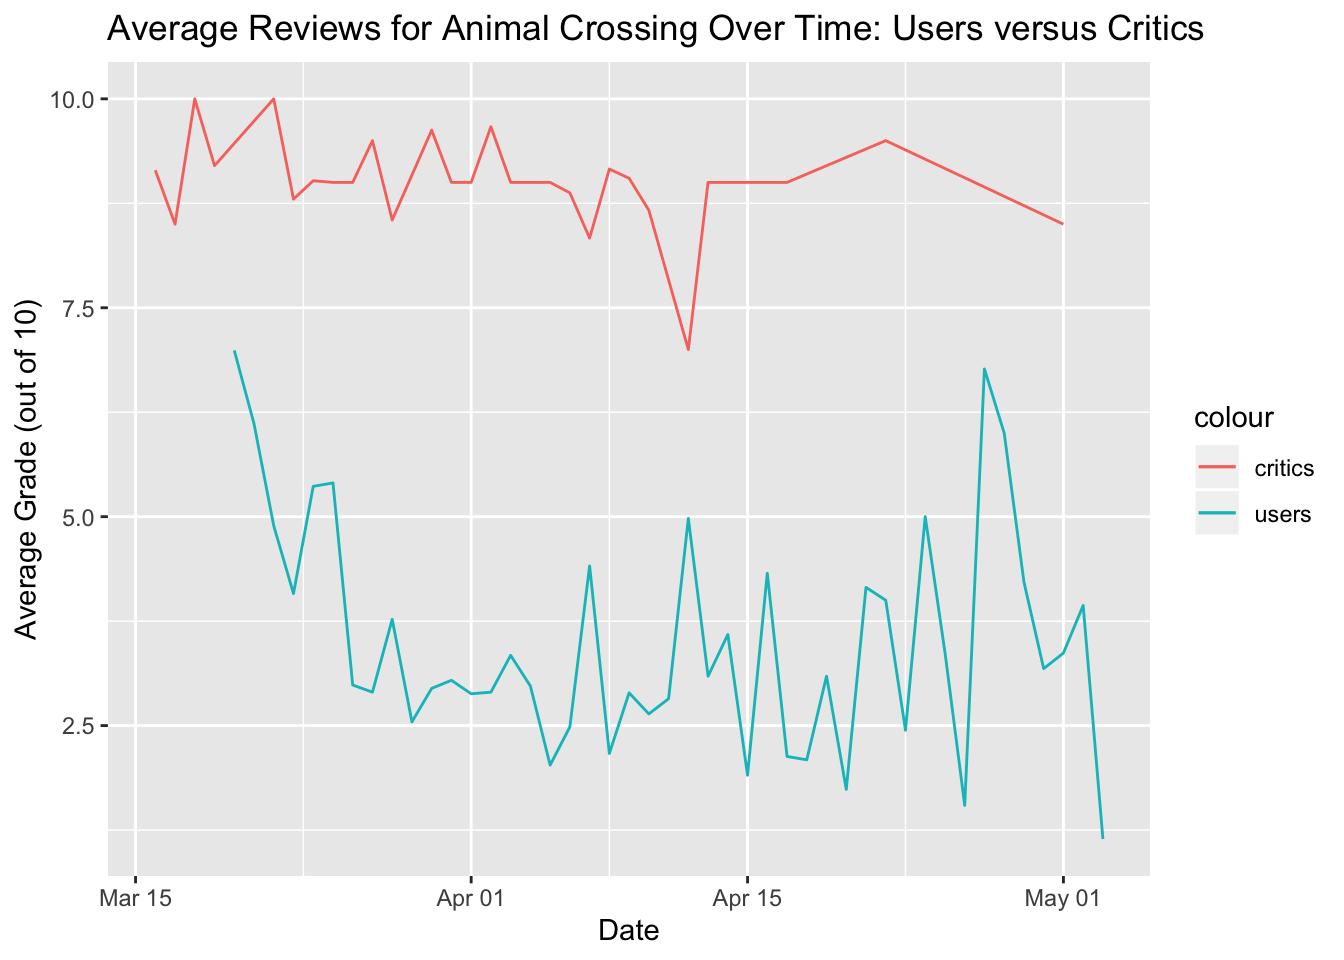
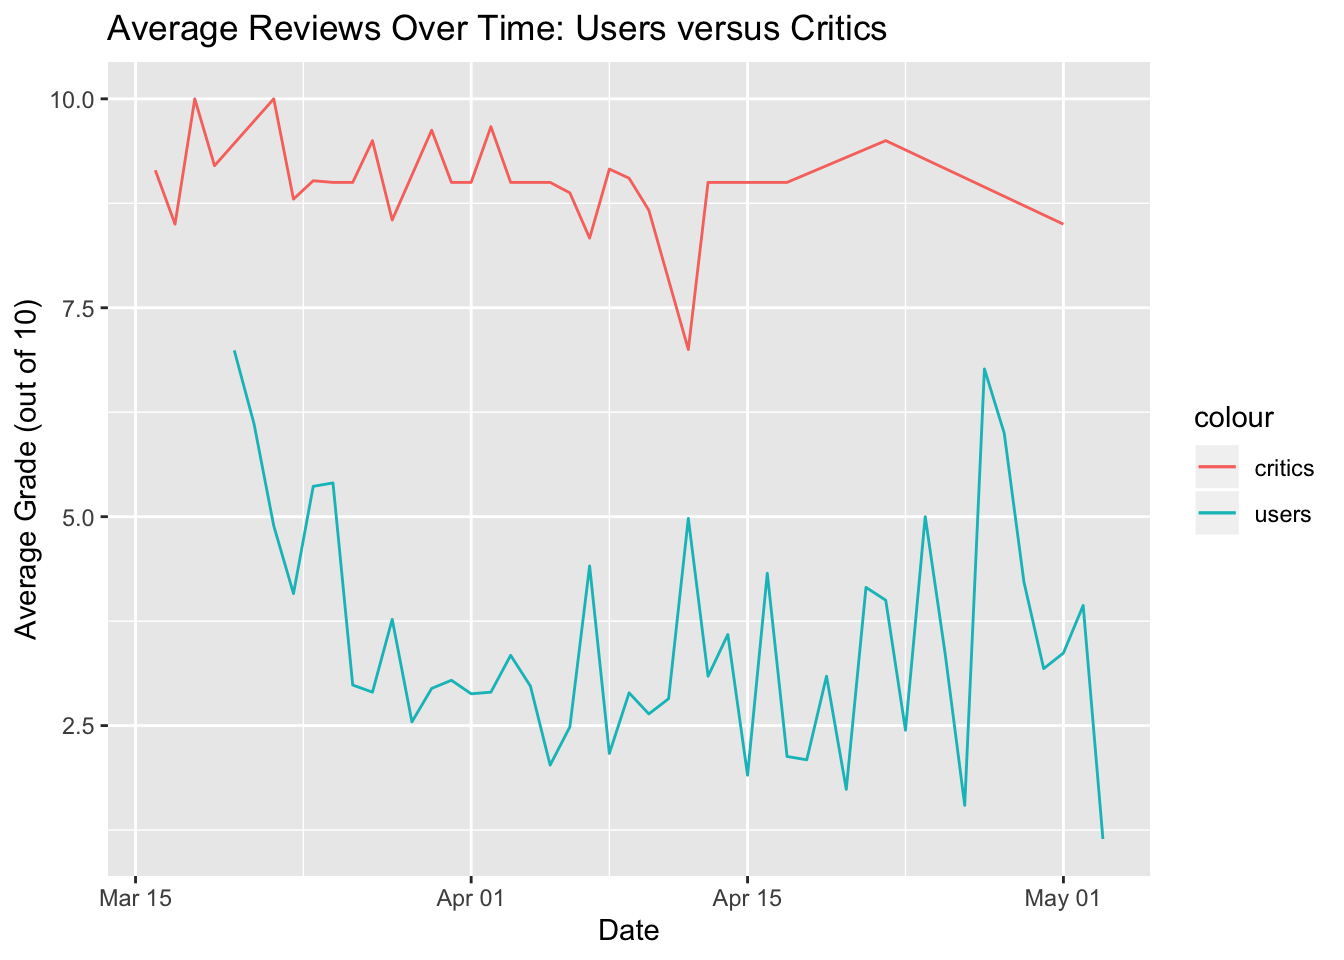
Finished animal crossing post!

Changed region(s): [[0.2812, 0.0, 0.9062, 0.0625]]

diff --git a/content/post/2020-05-05-animal-crossing.html b/content/post/2020-05-05-animal-crossing.html
@@ -1,19 +1,19 @@
 ---
 title: Animal Crossing
 author: Rose Porta
-date: '2020-05-05'
+date: '2020-05-07'
 slug: animal-crossing
 categories: []
 tags: []
-draft: true
+draft: false
 ---
 
 
 
 <p>Animal Crossing is a Nintendo video game, and the latest version, Animal Crossing New Horizons, released on March 20th 2020 is the latest trend among gamers. It is an open-ended simulation game where the goal is to create a community of anthropomorphic animals on a deserted island. If you want to learn more about it, the wikipedia page is <a href="https://en.wikipedia.org/wiki/Animal_Crossing:_New_Horizons">here</a> <a href="#fn1" class="footnote-ref" id="fnref1"><sup>1</sup></a>.</p>
 <p>The #TidyTuesday data this week contains information about Animal Crossing reviews by both critics and consumers <a href="#fn2" class="footnote-ref" id="fnref2"><sup>2</sup></a>. The data contains a numerical score associated with each review as well as the qualitative text review.</p>
-<div id="critic-reviews-versus-user-reviews-over-time" class="section level1">
-<h1>Critic Reviews Versus User Reviews Over Time</h1>
+<div id="trends-in-reviews-over-time-critics-versus-users" class="section level1">
+<h1>Trends in Reviews Over Time: Critics Versus Users</h1>
 <p>In order to see the overall trends in the reviews of critics versus users, I created a time series plot showing the trends over time in the average numerical ratings by critics and users (out of 10) since the game was released. The critics originally gave scores out of 100, but I converted them to be out of 10 for more consistent comparison to user reviews, which were out of 10.</p>
 <p><img src="/post/2020-05-05-animal-crossing_files/figure-html/unnamed-chunk-2-1.png" width="672" /></p>
 <p>Surprisingly, given the enormous commercial success of the game, the reviews by critics appear to be significantly higher than the reviews by users. In <a href="https://venturebeat.com/2020/04/15/6-weeks-with-animal-crossing-new-horizons-reveals-many-frustrations/">this article</a>, one critic, Jeff Grubb, offers some insight as to why users may be frustrated with certain aspects of the new game compared to older versions of the game <a href="#fn3" class="footnote-ref" id="fnref3"><sup>3</sup></a>. This could be partly why users rated the game so poorly, but it still does not fully explain why reviews by critics would be so significantly higher.</p>
@@ -23,37 +23,28 @@ draft: true
 <h1>Rating Distributions</h1>
 <p>In order to compare critic versus user reviews from a slightly different angle, I created boxplots representing the overall distributions of scores.</p>
 <p><img src="/post/2020-05-05-animal-crossing_files/figure-html/unnamed-chunk-3-1.png" width="672" /><img src="/post/2020-05-05-animal-crossing_files/figure-html/unnamed-chunk-3-2.png" width="672" /></p>
-<p>Consistent with the line graph, the median grade given by users appears to be almost 7 points lower than that given by critics, and this is an enormous difference on a 10 point scale! Furthermore, the scores given by users were much more widely spread out than those given by critics. This aspect makes sense given that critics generally approach their reviews with set criteria that is somewhat accepted among critics, so they are likely to reach similar conclusions, wheras users are reviewing the game based on their own very different priorities and preferences.</p>
-<p>Another notable aspect of these plots is that the plot of users’ scores has no “whiskers” or outliers, indicating that the minimum score (0) is also the first quartile, and the maximum score (10) is also the third quartile. This likely reflects the fact that users are more likely to review something if they have a strong (positive or negative) opinion about it, so a substantial number of users rated the game a 0 out of 10, but a substantial number also rated the game a 10/10. This effect would not apply to critics because critics are asked by companies to review certain games– they do not choose which games to review based on how much they like the games. This could be a possible explanation of the large disparity between user reviews and critic reviews. In general, users are more likely to review a product if they have a strong opinion about it at either extreme, but they may be even more inclined to review the game if their strong opinion is negative. If this is the case, the user reviews may not provide an accurate representation of overall user satisfaction.</p>
-<p>On the other hand, I am not an expert on how video game criticism works, but I believe critics are paid by the distributer of the game to review it. Thus, it seems that they may be more inclined to give a positive review so that they have a higher chance of being hired again by the same distributer, in which case critic reviews may also be a misleading measure of the overall quality of the game.</p>
+<p>Consistent with the line graph, the median grade given by users appears to be almost 7 points lower than that given by critics, and this is an enormous difference on a 10 point scale! Furthermore, the scores given by users were much more widely spread out than those given by critics. This aspect makes sense given that critics generally approach their reviews with set criteria that is somewhat accepted among critics, so they are likely to reach similar conclusions, whereas users are reviewing the game based on their own very different priorities and preferences.</p>
+<p>Another notable aspect of these plots is that the plot of users’ scores has no “whiskers” or outliers, indicating that the minimum score (0) is also the first quartile, and the maximum score (10) is also the third quartile. This likely reflects the fact that users are more likely to review something if they have a strong (positive or negative) opinion about it, so a substantial number of users rated the game a 0 out of 10, but a substantial number also rated the game a 10 out of 10. This effect would not apply to critics because critics are asked by companies to review certain games– they do not choose which games to review based on how much they like the games. This could be a possible explanation of the large disparity between user reviews and critic reviews. In general, users are more likely to review a product if they have a strong opinion about it at either extreme, but they may be even more inclined to review the game if their strong opinion is negative. If this is the case, the user reviews may not provide an accurate representation of overall user satisfaction.</p>
+<p>On the other hand, I am not an expert on how video game criticism works, but I believe critics are paid by the distributer of the game to review it. Thus, it seems that they may be more inclined to give a positive review so that they have a higher chance of being hired again by the same distributer. In this case, critic reviews may also be a misleading measure of the overall quality of the game.</p>
 <p>So, is Animal Crossing New Horizons worth buying? According to wikipedia, the game broke the console game record for most digital units sold in a month, having sold 5 million digital copies within the first month of being released <a href="#fn4" class="footnote-ref" id="fnref4"><sup>4</sup></a>. Plus, the median review by critics is a 9/10, which is pretty darn good. Based on these numbers, the verdict seems like a no brainer. The one piece of the puzzle that doesn’t fit is that the median user review is less than a 2.5 out of 10. Based, on that number alone, it would seem obvious that the game was terrible! I have explored some possible reasoning for this seemingly paradoxical disparity, but the definitive reason is still a mystery.</p>
 </div>
 <div id="text-analysis" class="section level1">
 <h1>Text Analysis</h1>
-<pre class="r"><code># Text Analysis
-
-library(tidytext)</code></pre>
-<pre><code>## Warning: package &#39;tidytext&#39; was built under R version 3.6.2</code></pre>
-<pre class="r"><code>library(wordcloud)</code></pre>
-<pre><code>## Loading required package: RColorBrewer</code></pre>
-<pre class="r"><code>critic_text &lt;- critic %&gt;% 
-  select(text) %&gt;% 
-  unnest_tokens(word, text) %&gt;% 
-  anti_join(stop_words) %&gt;% 
-  count(word, sort = TRUE)</code></pre>
-<pre><code>## Joining, by = &quot;word&quot;</code></pre>
-<pre class="r"><code>critic_text %&gt;% 
-  with(wordcloud(word, n, max.words = 50))</code></pre>
-<p><img src="/post/2020-05-05-animal-crossing_files/figure-html/unnamed-chunk-4-1.png" width="672" /></p>
-<pre class="r"><code>user_text &lt;- user_reviews %&gt;% 
-  select(text) %&gt;% 
-  unnest_tokens(word, text) %&gt;% 
-  anti_join(stop_words) %&gt;% 
-  count(word, sort = TRUE)</code></pre>
-<pre><code>## Joining, by = &quot;word&quot;</code></pre>
-<pre class="r"><code>user_text %&gt;% 
-  with(wordcloud(word, n, max.words = 50))</code></pre>
-<p><img src="/post/2020-05-05-animal-crossing_files/figure-html/unnamed-chunk-4-2.png" width="672" /></p>
+<p>In addition to looking at the numerical scores given by users and critics, I decided to do some qualitative text analysis to dig deeper into the differences between critic and user sentiments about the game. This was my first time doing text analysis in R, so it was a fun new challenge for me! The <a href="https://www.tidytextmining.com/">Text Mining with R</a> book was a very helpful resource to get me started <a href="#fn5" class="footnote-ref" id="fnref5"><sup>5</sup></a>.</p>
+<p>First, just for fun, I created word clouds of the most commonly used words in the critic and user reviews (I limited it to the top 50 words so they could all fit in the frame). This was not particularly informative because the most common words were pretty similar between the two, and the ones that stand out the most, like “animal”, “crossing”, “game”, “island”, and “nintendo” don’t tell us a whole lot about the opinions expressed in the reviews. Most of the words that are associated with emotion are positive for both, but it is notable that the word “bad” is in the top 50 most used words for users, while there are no explicitly negative words in the top 50 for critics.</p>
+<div id="critic-reviews" class="section level2">
+<h2>Critic Reviews</h2>
+<p><img src="/post/2020-05-05-animal-crossing_files/figure-html/unnamed-chunk-5-1.png" width="672" /></p>
+</div>
+<div id="user-reviews" class="section level2">
+<h2>User Reviews</h2>
+<p><img src="/post/2020-05-05-animal-crossing_files/figure-html/unnamed-chunk-6-1.png" width="672" />
+In order to dig deeper into the differences in sentiments being expressed in critic versus user reviews, I used the nrc data set from the textdata package<a href="#fn6" class="footnote-ref" id="fnref6"><sup>6</sup></a>, which is a crowd-sourced data set that classifies almost every word in the english language based on 10 sentiments: positive, negative, trust, anticipation, joy, sadness, fear, anger, surprise, and disgust. I joined this dataset with the data sets containing the words from the user and critic reviews in order to classify each word in the reviews based on these sentiments. Then, I computed the proportion of words associated with each sentiment for critic and user reviews, and compared the proportions using the bar plot below.</p>
+<p><img src="/post/2020-05-05-animal-crossing_files/figure-html/unnamed-chunk-7-1.png" width="672" /></p>
+<p>Consistent with the numerical scores being significantly higher for critic reviews, a significantly higher proportion of words in the critic reviews were classified into the categories positive, trust, anticipation, joy and surprise when compared to user reviews. Each of these categories corresponds to the expression of optimism, which makes sense because the numerical scores showed the critic reviews to be much more optimistic than the user reviews. On the other side of it, the proportions for critic reviews were much lower in the negative, sadness, fear, anger, and disgust categories compared to the proportions for user reviews. Each of these categories corresponds to the expression of pessimism, which also aligns with my analysis of the numerical scores.</p>
+<p>Overall, it still puzzles me why the critics and the users would have such drastically different opinions on the same game, but it is clear based on both the quantitative analysis of the scores and the qualitative analysis of the text reviews that critics expressed much higher levels of satisfaction than did users about Nintendo’s new release Animal Crossing New Horizons. I will have to do more research on the game and on the process of video game review to better explain these results.</p>
+<p>That’s it for this post! Stay tuned for next week!</p>
+</div>
 </div>
 <div class="footnotes">
 <hr />
@@ -62,5 +53,7 @@ library(tidytext)</code></pre>
 <li id="fn2"><p><a href="https://github.com/rfordatascience/tidytuesday/blob/master/data/2020/2020-05-05/readme.md" class="uri">https://github.com/rfordatascience/tidytuesday/blob/master/data/2020/2020-05-05/readme.md</a><a href="#fnref2" class="footnote-back">↩</a></p></li>
 <li id="fn3"><p><a href="https://venturebeat.com/2020/04/15/6-weeks-with-animal-crossing-new-horizons-reveals-many-frustrations/" class="uri">https://venturebeat.com/2020/04/15/6-weeks-with-animal-crossing-new-horizons-reveals-many-frustrations/</a><a href="#fnref3" class="footnote-back">↩</a></p></li>
 <li id="fn4"><p><a href="https://en.wikipedia.org/wiki/Animal_Crossing:_New_Horizons" class="uri">https://en.wikipedia.org/wiki/Animal_Crossing:_New_Horizons</a><a href="#fnref4" class="footnote-back">↩</a></p></li>
+<li id="fn5"><p><a href="https://www.tidytextmining.com/" class="uri">https://www.tidytextmining.com/</a><a href="#fnref5" class="footnote-back">↩</a></p></li>
+<li id="fn6"><p>This dataset was published in Saif M. Mohammad and Peter Turney. (2013), ``Crowdsourcing a Word-Emotion Association Lexicon.’’ Computational Intelligence, 29(3): 436-465.<a href="#fnref6" class="footnote-back">↩</a></p></li>
 </ol>
 </div>

diff --git a/public/2020/05/07/animal-crossing/index.html b/public/2020/05/07/animal-crossing/index.html
@@ -61,7 +61,7 @@
     <h1 class="article-title">Animal Crossing</h1>
 
     
-    <span class="article-date">2020-05-05</span>
+    <span class="article-date">2020-05-07</span>
     
 
     <div class="article-content">
@@ -70,8 +70,8 @@
 
 <p>Animal Crossing is a Nintendo video game, and the latest version, Animal Crossing New Horizons, released on March 20th 2020 is the latest trend among gamers. It is an open-ended simulation game where the goal is to create a community of anthropomorphic animals on a deserted island. If you want to learn more about it, the wikipedia page is <a href="https://en.wikipedia.org/wiki/Animal_Crossing:_New_Horizons">here</a> <a href="#fn1" class="footnote-ref" id="fnref1"><sup>1</sup></a>.</p>
 <p>The #TidyTuesday data this week contains information about Animal Crossing reviews by both critics and consumers <a href="#fn2" class="footnote-ref" id="fnref2"><sup>2</sup></a>. The data contains a numerical score associated with each review as well as the qualitative text review.</p>
-<div id="critic-reviews-versus-user-reviews-over-time" class="section level1">
-<h1>Critic Reviews Versus User Reviews Over Time</h1>
+<div id="trends-in-reviews-over-time-critics-versus-users" class="section level1">
+<h1>Trends in Reviews Over Time: Critics Versus Users</h1>
 <p>In order to see the overall trends in the reviews of critics versus users, I created a time series plot showing the trends over time in the average numerical ratings by critics and users (out of 10) since the game was released. The critics originally gave scores out of 100, but I converted them to be out of 10 for more consistent comparison to user reviews, which were out of 10.</p>
 <p><img src="/post/2020-05-05-animal-crossing_files/figure-html/unnamed-chunk-2-1.png" width="672" /></p>
 <p>Surprisingly, given the enormous commercial success of the game, the reviews by critics appear to be significantly higher than the reviews by users. In <a href="https://venturebeat.com/2020/04/15/6-weeks-with-animal-crossing-new-horizons-reveals-many-frustrations/">this article</a>, one critic, Jeff Grubb, offers some insight as to why users may be frustrated with certain aspects of the new game compared to older versions of the game <a href="#fn3" class="footnote-ref" id="fnref3"><sup>3</sup></a>. This could be partly why users rated the game so poorly, but it still does not fully explain why reviews by critics would be so significantly higher.</p>
@@ -81,9 +81,9 @@
 <h1>Rating Distributions</h1>
 <p>In order to compare critic versus user reviews from a slightly different angle, I created boxplots representing the overall distributions of scores.</p>
 <p><img src="/post/2020-05-05-animal-crossing_files/figure-html/unnamed-chunk-3-1.png" width="672" /><img src="/post/2020-05-05-animal-crossing_files/figure-html/unnamed-chunk-3-2.png" width="672" /></p>
-<p>Consistent with the line graph, the median grade given by users appears to be almost 7 points lower than that given by critics, and this is an enormous difference on a 10 point scale! Furthermore, the scores given by users were much more widely spread out than those given by critics. This aspect makes sense given that critics generally approach their reviews with set criteria that is somewhat accepted among critics, so they are likely to reach similar conclusions, wheras users are reviewing the game based on their own very different priorities and preferences.</p>
-<p>Another notable aspect of these plots is that the plot of users’ scores has no “whiskers” or outliers, indicating that the minimum score (0) is also the first quartile, and the maximum score (10) is also the third quartile. This likely reflects the fact that users are more likely to review something if they have a strong (positive or negative) opinion about it, so a substantial number of users rated the game a 0 out of 10, but a substantial number also rated the game a 10/10. This effect would not apply to critics because critics are asked by companies to review certain games– they do not choose which games to review based on how much they like the games. This could be a possible explanation of the large disparity between user reviews and critic reviews. In general, users are more likely to review a product if they have a strong opinion about it at either extreme, but they may be even more inclined to review the game if their strong opinion is negative. If this is the case, the user reviews may not provide an accurate representation of overall user satisfaction.</p>
-<p>On the other hand, I am not an expert on how video game criticism works, but I believe critics are paid by the distributer of the game to review it. Thus, it seems that they may be more inclined to give a positive review so that they have a higher chance of being hired again by the same distributer, in which case critic reviews may also be a misleading measure of the overall quality of the game.</p>
+<p>Consistent with the line graph, the median grade given by users appears to be almost 7 points lower than that given by critics, and this is an enormous difference on a 10 point scale! Furthermore, the scores given by users were much more widely spread out than those given by critics. This aspect makes sense given that critics generally approach their reviews with set criteria that is somewhat accepted among critics, so they are likely to reach similar conclusions, whereas users are reviewing the game based on their own very different priorities and preferences.</p>
+<p>Another notable aspect of these plots is that the plot of users’ scores has no “whiskers” or outliers, indicating that the minimum score (0) is also the first quartile, and the maximum score (10) is also the third quartile. This likely reflects the fact that users are more likely to review something if they have a strong (positive or negative) opinion about it, so a substantial number of users rated the game a 0 out of 10, but a substantial number also rated the game a 10 out of 10. This effect would not apply to critics because critics are asked by companies to review certain games– they do not choose which games to review based on how much they like the games. This could be a possible explanation of the large disparity between user reviews and critic reviews. In general, users are more likely to review a product if they have a strong opinion about it at either extreme, but they may be even more inclined to review the game if their strong opinion is negative. If this is the case, the user reviews may not provide an accurate representation of overall user satisfaction.</p>
+<p>On the other hand, I am not an expert on how video game criticism works, but I believe critics are paid by the distributer of the game to review it. Thus, it seems that they may be more inclined to give a positive review so that they have a higher chance of being hired again by the same distributer. In this case, critic reviews may also be a misleading measure of the overall quality of the game.</p>
 <p>So, is Animal Crossing New Horizons worth buying? According to wikipedia, the game broke the console game record for most digital units sold in a month, having sold 5 million digital copies within the first month of being released <a href="#fn4" class="footnote-ref" id="fnref4"><sup>4</sup></a>. Plus, the median review by critics is a 9/10, which is pretty darn good. Based on these numbers, the verdict seems like a no brainer. The one piece of the puzzle that doesn’t fit is that the median user review is less than a 2.5 out of 10. Based, on that number alone, it would seem obvious that the game was terrible! I have explored some possible reasoning for this seemingly paradoxical disparity, but the definitive reason is still a mystery.</p>
 </div>
 <div id="text-analysis" class="section level1">

diff --git a/public/index.html b/public/index.html
@@ -66,9 +66,9 @@
     <h2 class="archive-title">2020</h2>
     
     <article class="archive-item">
-      <a href="/2020/05/05/animal-crossing/" class="archive-item-link">Animal Crossing</a>
+      <a href="/2020/05/07/animal-crossing/" class="archive-item-link">Animal Crossing</a>
       <span class="archive-item-date">
-        2020-05-05
+        2020-05-07
       </span>
     </article>
     

diff --git a/public/post/index.html b/public/post/index.html
@@ -63,9 +63,9 @@
     <h2 class="archive-title">2020</h2>
     
     <article class="archive-item">
-      <a href="/2020/05/05/animal-crossing/" class="archive-item-link">Animal Crossing</a>
+      <a href="/2020/05/07/animal-crossing/" class="archive-item-link">Animal Crossing</a>
       <span class="archive-item-date">
-        2020-05-05
+        2020-05-07
       </span>
     </article>
     
